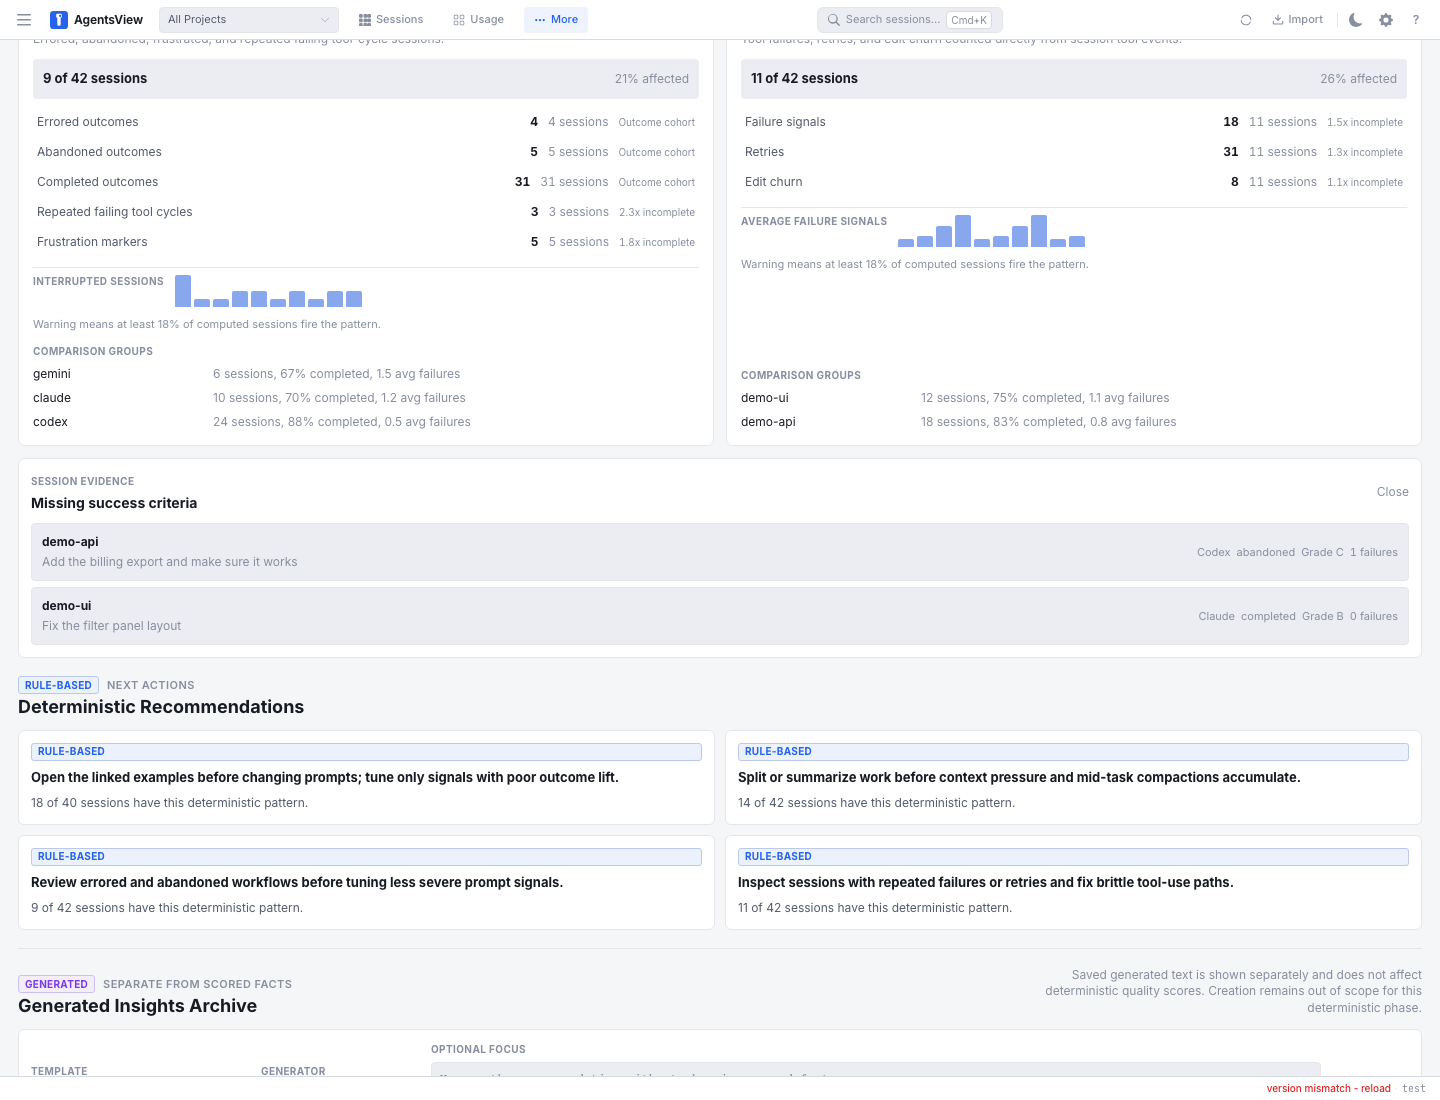
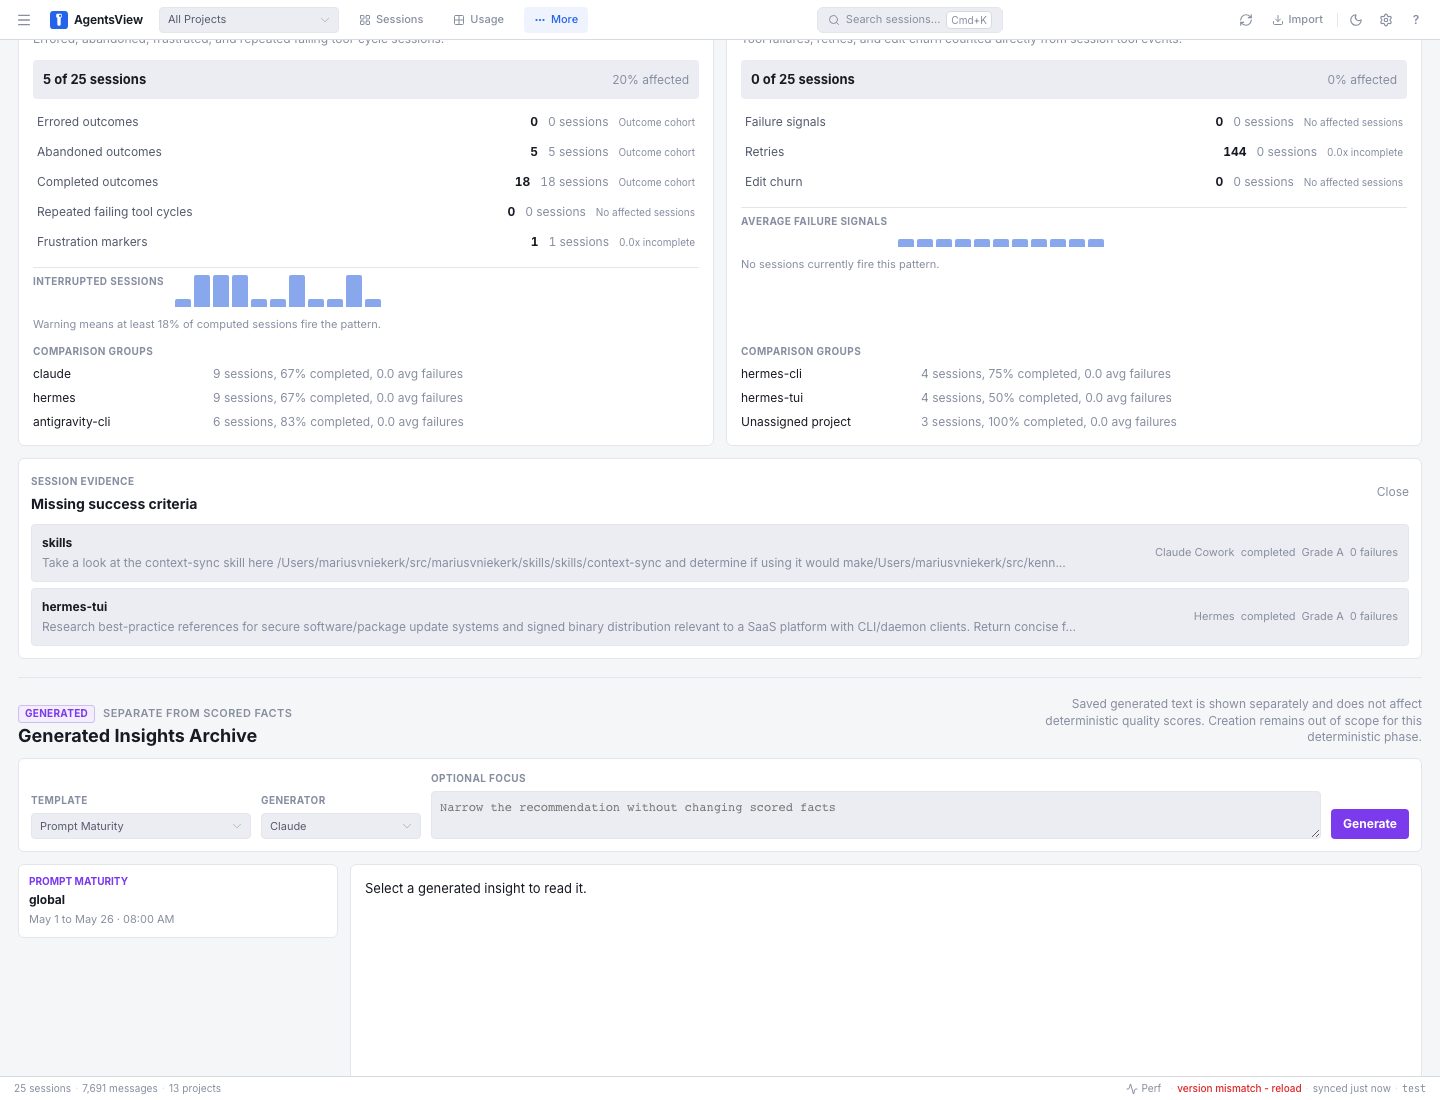
Scope usage summaries to termination filters
Usage totals and top-session lists need to match the same termination scope that the shared session filters apply elsewhere. Forwarding the termination filter keeps the Usage page from mixing clean, abandoned, and pending sessions when users deep-link or change that filter.

The Phase 6 PR screenshots are refreshed from the e2e UI so the evidence now shows deterministic recommendations before the detailed quality data.

Validation: npm --prefix frontend run check; npm --prefix frontend test -- src/lib/stores/usage.test.ts src/lib/components/usage/UsagePage.test.ts; npx playwright test e2e/__screenshot-capture.spec.ts --project=chromium (temporary local capture spec).

Generated with Codex

diff --git a/frontend/src/lib/stores/usage.test.ts b/frontend/src/lib/stores/usage.test.ts
@@ -250,6 +250,7 @@ describe("UsageStore session filter params", () => {
     sessions.filters.project = "proj-a";
     sessions.filters.machine = "host-a,host-b";
     sessions.filters.agent = "claude,codex";
+    sessions.filters.termination = "abandoned";
     sessions.filters.minUserMessages = 5;
     sessions.filters.includeOneShot = false;
     sessions.filters.includeAutomated = true;
@@ -262,6 +263,7 @@ describe("UsageStore session filter params", () => {
         project: "proj-a",
         machine: "host-a,host-b",
         agent: "claude,codex",
+        termination: "abandoned",
         minUserMessages: 5,
         includeOneShot: false,
         includeAutomated: true,
@@ -275,6 +277,7 @@ describe("UsageStore session filter params", () => {
         project: "proj-a",
         machine: "host-a,host-b",
         agent: "claude,codex",
+        termination: "abandoned",
         minUserMessages: 5,
         includeOneShot: false,
         includeAutomated: true,

diff --git a/frontend/src/lib/components/usage/UsagePage.test.ts b/frontend/src/lib/components/usage/UsagePage.test.ts
@@ -23,6 +23,11 @@ describe("UsagePage refresh behavior", () => {
     );
   });
 
+  it("treats termination as a usage URL session filter", () => {
+    expect(source).toContain('"termination",');
+    expect(source).toContain("filtersToParams(sessions.filters)");
+  });
+
   it("keeps the refresh timestamp beside the centered icon button", () => {
     const refreshControl =
       source.match(/\.refresh-control\s*{[^}]+}/)?.[0] ?? "";

diff --git a/frontend/src/lib/stores/usage.svelte.ts b/frontend/src/lib/stores/usage.svelte.ts
@@ -232,6 +232,7 @@ class UsageStore {
       project: sessionFilters.project || undefined,
       machine: sessionFilters.machine || undefined,
       agent: sessionFilters.agent || undefined,
+      termination: sessionFilters.termination || undefined,
       minUserMessages:
         sessionFilters.minUserMessages > 0
           ? sessionFilters.minUserMessages

diff --git a/frontend/src/lib/components/usage/UsagePage.svelte b/frontend/src/lib/components/usage/UsagePage.svelte
@@ -116,6 +116,7 @@
   ]);
   const SESSION_FILTER_KEYS = new Set([
     "project", "machine", "agent",
+    "termination",
     "date", "date_from", "date_to",
     "active_since", "exclude_project",
     "min_messages", "max_messages", "min_user_messages",
